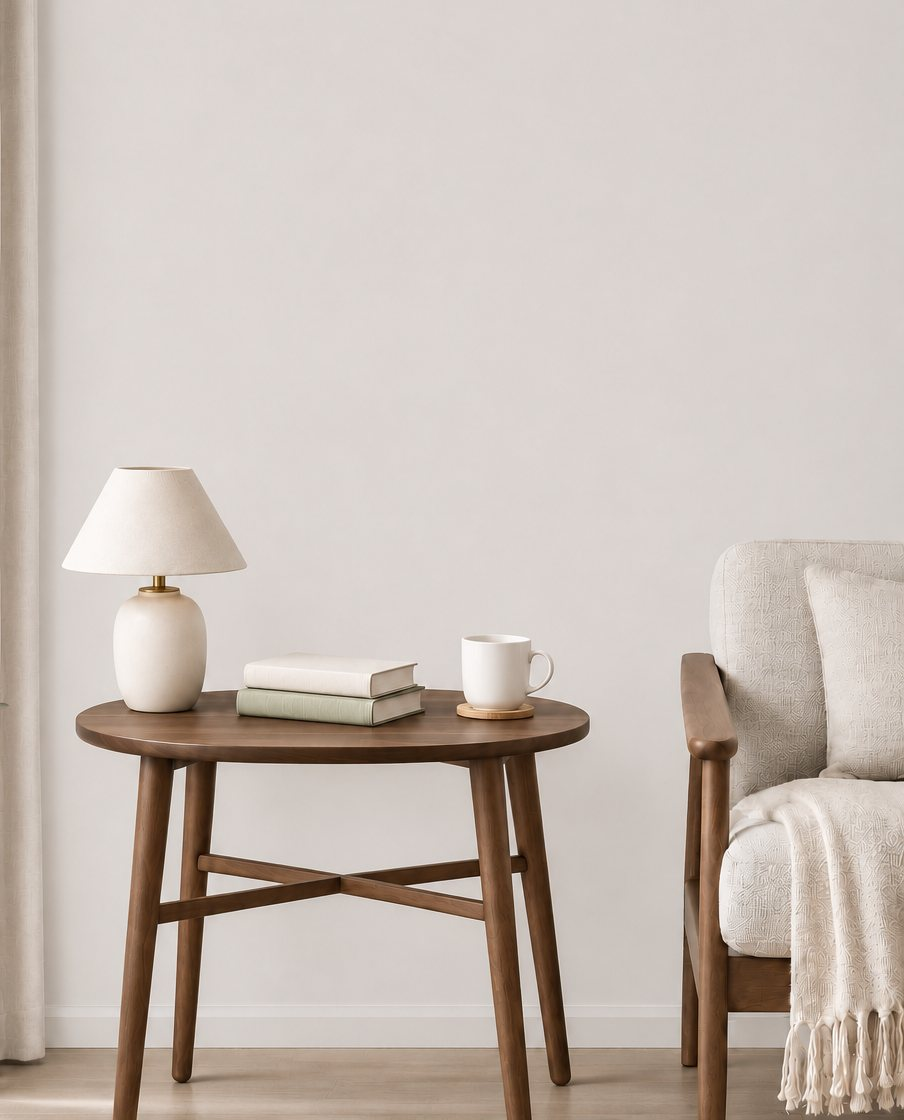
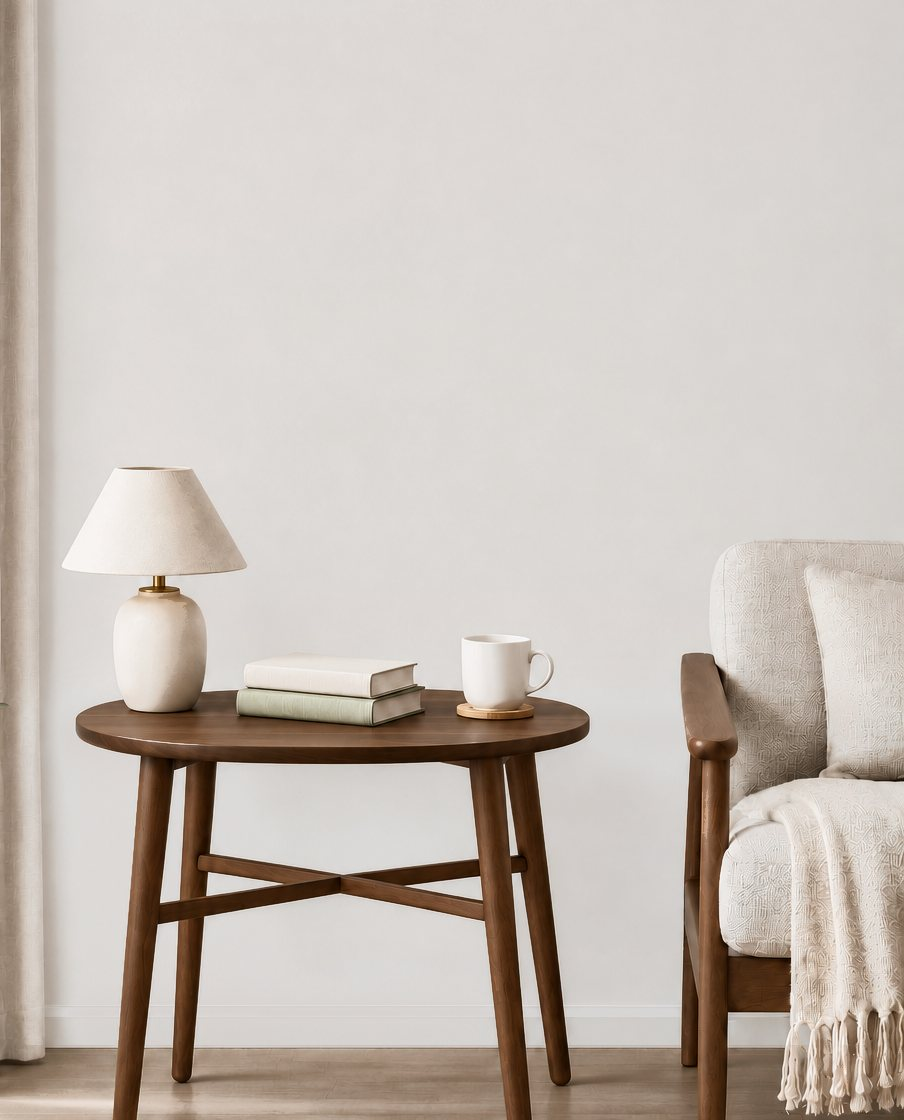
Wall view: desk paintings centred on the wall; table-and-chair room wall matched and wood richer
Claude-Session: https://claude.ai/code/session_01DXftZE4vQKfDt7Q36KHzd9

diff --git a/g-landscapes-trees-and-woodland.html b/g-landscapes-trees-and-woodland.html
@@ -33,7 +33,7 @@
 <img class="room" src="img/room.jpg" alt="" width="1037" height="1517" loading="lazy">
 <div class="hang bare" style="--tw:46;--th:54;--fw:0;--mx:0;--mt:0;--mb:0">
 <img src="img/t/054.jpg" alt="Bluebells in Spring shown at its real size on a wall" loading="lazy"></div>
-</div><p class="pane-note">Shown at its real size, 54 × 46 cm. Above a cabinet about 90 cm wide. The room is an illustration.</p></div><div class="views" role="group" aria-label="Choose a view of Bluebells in Spring"><button type="button" class="view-btn" data-view="painting" aria-pressed="true"><img src="img/t/054.jpg" alt="">The painting</button><button type="button" class="view-btn" data-view="wall" aria-pressed="false"><img src="img/room-thumb.jpg" alt="">On a wall</button></div></div><div class="ex-info"><h2>Bluebells in Spring</h2><dl><dt>Medium</dt><dd>Oil on canvas board</dd><dt>Size</dt><dd>54 × 46 cm</dd><dt>Year</dt><dd>2018</dd><dt>Price</dt><dd>Not for sale</dd><dt>Catalogue no.</dt><dd>54</dd></dl><p>A swathe of blue flowers across the woodland, where two birch trees stand out against the darker wood.</p><p class="ex-links"><button type="button" class="share-btn" data-url="https://joanmullinsart.co.uk/w-054.html" data-title="Bluebells in Spring, by Joan Mullins"><svg aria-hidden="true" viewBox="0 0 24 24" width="16" height="16" fill="none" stroke="currentColor" stroke-width="1.8" stroke-linecap="round" stroke-linejoin="round"><path d="M4 12v7a1 1 0 0 0 1 1h14a1 1 0 0 0 1-1v-7"/><path d="M12 3v12"/><path d="M7 8l5-5 5 5"/></svg><span>Share</span></button></p></div></article><article class="ex" data-status="available" id="w-060"><div class="ex-pic viewer"><div class="pane" data-pane="painting"><a href="img/w/060.jpg" data-zoom title="See it larger"><img src="img/w/060.jpg" alt="Oil painting of bright light shining through dark tree trunks onto snow." loading="lazy" width="1100" height="823"></a></div><div class="pane" data-pane="wall"><div class="wall" style="--rw:1086;--rh:1065;--s:13.0;--cx:542;--by:521">
+</div><p class="pane-note">Shown at its real size, 54 × 46 cm. Above a cabinet about 90 cm wide. The room is an illustration.</p></div><div class="views" role="group" aria-label="Choose a view of Bluebells in Spring"><button type="button" class="view-btn" data-view="painting" aria-pressed="true"><img src="img/t/054.jpg" alt="">The painting</button><button type="button" class="view-btn" data-view="wall" aria-pressed="false"><img src="img/room-thumb.jpg" alt="">On a wall</button></div></div><div class="ex-info"><h2>Bluebells in Spring</h2><dl><dt>Medium</dt><dd>Oil on canvas board</dd><dt>Size</dt><dd>54 × 46 cm</dd><dt>Year</dt><dd>2018</dd><dt>Price</dt><dd>Not for sale</dd><dt>Catalogue no.</dt><dd>54</dd></dl><p>A swathe of blue flowers across the woodland, where two birch trees stand out against the darker wood.</p><p class="ex-links"><button type="button" class="share-btn" data-url="https://joanmullinsart.co.uk/w-054.html" data-title="Bluebells in Spring, by Joan Mullins"><svg aria-hidden="true" viewBox="0 0 24 24" width="16" height="16" fill="none" stroke="currentColor" stroke-width="1.8" stroke-linecap="round" stroke-linejoin="round"><path d="M4 12v7a1 1 0 0 0 1 1h14a1 1 0 0 0 1-1v-7"/><path d="M12 3v12"/><path d="M7 8l5-5 5 5"/></svg><span>Share</span></button></p></div></article><article class="ex" data-status="available" id="w-060"><div class="ex-pic viewer"><div class="pane" data-pane="painting"><a href="img/w/060.jpg" data-zoom title="See it larger"><img src="img/w/060.jpg" alt="Oil painting of bright light shining through dark tree trunks onto snow." loading="lazy" width="1100" height="823"></a></div><div class="pane" data-pane="wall"><div class="wall" style="--rw:1086;--rh:1065;--s:13.0;--cx:616;--by:521">
 <img class="room" src="img/room-desk.jpg" alt="" width="1086" height="1065" loading="lazy">
 <div class="hang bare" style="--tw:20;--th:15;--fw:0;--mx:0;--mt:0;--mb:0">
 <img src="img/t/060.jpg" alt="Light in the Snow shown at its real size on a wall" loading="lazy"></div>
@@ -45,7 +45,7 @@
 <img class="room" src="img/room.jpg" alt="" width="1037" height="1517" loading="lazy">
 <div class="hang bare" style="--tw:35;--th:48;--fw:0;--mx:0;--mt:0;--mb:0">
 <img src="img/t/090.jpg" alt="The Yellow Bush shown at its real size on a wall" loading="lazy"></div>
-</div><p class="pane-note">Shown at its real size, 48 × 35 cm. Above a cabinet about 90 cm wide. The room is an illustration.</p></div><div class="views" role="group" aria-label="Choose a view of The Yellow Bush"><button type="button" class="view-btn" data-view="painting" aria-pressed="true"><img src="img/t/090.jpg" alt="">The painting</button><button type="button" class="view-btn" data-view="wall" aria-pressed="false"><img src="img/room-thumb.jpg" alt="">On a wall</button></div></div><div class="ex-info"><h2>The Yellow Bush</h2><dl><dt>Medium</dt><dd>Oil on canvas board</dd><dt>Size</dt><dd>48 × 35 cm</dd><dt>Year</dt><dd>2024</dd><dt>Inspired by</dt><dd>A wood in Cheshire</dd><dt>Price</dt><dd>Not for sale</dd><dt>Catalogue no.</dt><dd>90</dd></dl><p>This painting is based on trees seen on a walk in the woods in Cheshire, where one bush in particular stood out.</p><p class="ex-links"><button type="button" class="share-btn" data-url="https://joanmullinsart.co.uk/w-090.html" data-title="The Yellow Bush, by Joan Mullins"><svg aria-hidden="true" viewBox="0 0 24 24" width="16" height="16" fill="none" stroke="currentColor" stroke-width="1.8" stroke-linecap="round" stroke-linejoin="round"><path d="M4 12v7a1 1 0 0 0 1 1h14a1 1 0 0 0 1-1v-7"/><path d="M12 3v12"/><path d="M7 8l5-5 5 5"/></svg><span>Share</span></button></p></div></article><article class="ex" data-status="available" id="w-105"><div class="ex-pic viewer"><div class="pane" data-pane="painting"><a href="img/w/105.jpg" data-zoom title="See it larger"><img src="img/w/105.jpg" alt="Oil painting of a sunlit path between overgrown green banks and trees near West Kirby, on the Wirral." loading="lazy" width="726" height="1100"></a></div><div class="pane" data-pane="wall"><div class="wall" style="--rw:1086;--rh:1065;--s:13.0;--cx:542;--by:521">
+</div><p class="pane-note">Shown at its real size, 48 × 35 cm. Above a cabinet about 90 cm wide. The room is an illustration.</p></div><div class="views" role="group" aria-label="Choose a view of The Yellow Bush"><button type="button" class="view-btn" data-view="painting" aria-pressed="true"><img src="img/t/090.jpg" alt="">The painting</button><button type="button" class="view-btn" data-view="wall" aria-pressed="false"><img src="img/room-thumb.jpg" alt="">On a wall</button></div></div><div class="ex-info"><h2>The Yellow Bush</h2><dl><dt>Medium</dt><dd>Oil on canvas board</dd><dt>Size</dt><dd>48 × 35 cm</dd><dt>Year</dt><dd>2024</dd><dt>Inspired by</dt><dd>A wood in Cheshire</dd><dt>Price</dt><dd>Not for sale</dd><dt>Catalogue no.</dt><dd>90</dd></dl><p>This painting is based on trees seen on a walk in the woods in Cheshire, where one bush in particular stood out.</p><p class="ex-links"><button type="button" class="share-btn" data-url="https://joanmullinsart.co.uk/w-090.html" data-title="The Yellow Bush, by Joan Mullins"><svg aria-hidden="true" viewBox="0 0 24 24" width="16" height="16" fill="none" stroke="currentColor" stroke-width="1.8" stroke-linecap="round" stroke-linejoin="round"><path d="M4 12v7a1 1 0 0 0 1 1h14a1 1 0 0 0 1-1v-7"/><path d="M12 3v12"/><path d="M7 8l5-5 5 5"/></svg><span>Share</span></button></p></div></article><article class="ex" data-status="available" id="w-105"><div class="ex-pic viewer"><div class="pane" data-pane="painting"><a href="img/w/105.jpg" data-zoom title="See it larger"><img src="img/w/105.jpg" alt="Oil painting of a sunlit path between overgrown green banks and trees near West Kirby, on the Wirral." loading="lazy" width="726" height="1100"></a></div><div class="pane" data-pane="wall"><div class="wall" style="--rw:1086;--rh:1065;--s:13.0;--cx:616;--by:521">
 <img class="room" src="img/room-desk.jpg" alt="" width="1086" height="1065" loading="lazy">
 <div class="hang bare" style="--tw:20;--th:29;--fw:0;--mx:0;--mt:0;--mb:0">
 <img src="img/t/105.jpg" alt="A Path in the Wirral shown at its real size on a wall" loading="lazy"></div>
@@ -69,7 +69,7 @@
 <img class="room" src="img/room-small.jpg" alt="" width="904" height="1120" loading="lazy">
 <div class="hang bare" style="--tw:45;--th:33;--fw:0;--mx:0;--mt:0;--mb:0">
 <img src="img/t/142.jpg" alt="Landscape with Red Roofs shown at its real size on a wall" loading="lazy"></div>
-</div><p class="pane-note">Shown at its real size, 33 × 45 cm. Above a side table about 65 cm across. The room is an illustration.</p></div><div class="views" role="group" aria-label="Choose a view of Landscape with Red Roofs"><button type="button" class="view-btn" data-view="painting" aria-pressed="true"><img src="img/t/142.jpg" alt="">The painting</button><button type="button" class="view-btn" data-view="wall" aria-pressed="false"><img src="img/room-small-thumb.jpg" alt="">On a wall</button></div></div><div class="ex-info"><h2>Landscape with Red Roofs</h2><dl><dt>Medium</dt><dd>Oil on canvas board</dd><dt>Size</dt><dd>33 × 45 cm</dd><dt>Year</dt><dd>2026</dd><dt>Price</dt><dd>£300</dd><dt>Catalogue no.</dt><dd>142</dd></dl><p>A summer landscape, with a path passing between trees inviting the viewer to look out towards the houses in the distance.</p><p class="ex-links"><a href="enquire.html#w-142">Ask about this painting</a> · <button type="button" class="share-btn" data-url="https://joanmullinsart.co.uk/w-142.html" data-title="Landscape with Red Roofs, by Joan Mullins"><svg aria-hidden="true" viewBox="0 0 24 24" width="16" height="16" fill="none" stroke="currentColor" stroke-width="1.8" stroke-linecap="round" stroke-linejoin="round"><path d="M4 12v7a1 1 0 0 0 1 1h14a1 1 0 0 0 1-1v-7"/><path d="M12 3v12"/><path d="M7 8l5-5 5 5"/></svg><span>Share</span></button></p></div></article><article class="ex" data-status="available" id="w-148"><div class="ex-pic viewer"><div class="pane" data-pane="painting"><a href="img/w/148.jpg" data-zoom title="See it larger"><img src="img/w/148.jpg" alt="Oil painting of autumn woodland with tall trees in orange, yellow and green on a calm day." loading="lazy" width="1099" height="777"></a></div><div class="pane" data-pane="wall"><div class="wall" style="--rw:1086;--rh:1065;--s:13.0;--cx:542;--by:521">
+</div><p class="pane-note">Shown at its real size, 33 × 45 cm. Above a side table about 65 cm across. The room is an illustration.</p></div><div class="views" role="group" aria-label="Choose a view of Landscape with Red Roofs"><button type="button" class="view-btn" data-view="painting" aria-pressed="true"><img src="img/t/142.jpg" alt="">The painting</button><button type="button" class="view-btn" data-view="wall" aria-pressed="false"><img src="img/room-small-thumb.jpg" alt="">On a wall</button></div></div><div class="ex-info"><h2>Landscape with Red Roofs</h2><dl><dt>Medium</dt><dd>Oil on canvas board</dd><dt>Size</dt><dd>33 × 45 cm</dd><dt>Year</dt><dd>2026</dd><dt>Price</dt><dd>£300</dd><dt>Catalogue no.</dt><dd>142</dd></dl><p>A summer landscape, with a path passing between trees inviting the viewer to look out towards the houses in the distance.</p><p class="ex-links"><a href="enquire.html#w-142">Ask about this painting</a> · <button type="button" class="share-btn" data-url="https://joanmullinsart.co.uk/w-142.html" data-title="Landscape with Red Roofs, by Joan Mullins"><svg aria-hidden="true" viewBox="0 0 24 24" width="16" height="16" fill="none" stroke="currentColor" stroke-width="1.8" stroke-linecap="round" stroke-linejoin="round"><path d="M4 12v7a1 1 0 0 0 1 1h14a1 1 0 0 0 1-1v-7"/><path d="M12 3v12"/><path d="M7 8l5-5 5 5"/></svg><span>Share</span></button></p></div></article><article class="ex" data-status="available" id="w-148"><div class="ex-pic viewer"><div class="pane" data-pane="painting"><a href="img/w/148.jpg" data-zoom title="See it larger"><img src="img/w/148.jpg" alt="Oil painting of autumn woodland with tall trees in orange, yellow and green on a calm day." loading="lazy" width="1099" height="777"></a></div><div class="pane" data-pane="wall"><div class="wall" style="--rw:1086;--rh:1065;--s:13.0;--cx:616;--by:521">
 <img class="room" src="img/room-desk.jpg" alt="" width="1086" height="1065" loading="lazy">
 <div class="hang bare" style="--tw:34;--th:25;--fw:0;--mx:0;--mt:0;--mb:0">
 <img src="img/t/148.jpg" alt="Autumn Woods shown at its real size on a wall" loading="lazy"></div>

diff --git a/sold.html b/sold.html
@@ -49,7 +49,7 @@
 <img class="room" src="img/room-small.jpg" alt="" width="904" height="1120" loading="lazy">
 <div class="hang bare" style="--tw:35;--th:45;--fw:0;--mx:0;--mt:0;--mb:0">
 <img src="img/t/114.jpg" alt="Landscape with Birch Trees shown at its real size on a wall" loading="lazy"></div>
-</div><p class="pane-note">Shown at its real size, 45 × 35 cm. Above a side table about 65 cm across. The room is an illustration.</p></div><div class="views" role="group" aria-label="Choose a view of Landscape with Birch Trees"><button type="button" class="view-btn" data-view="painting" aria-pressed="true"><img src="img/t/114.jpg" alt="">The painting</button><button type="button" class="view-btn" data-view="wall" aria-pressed="false"><img src="img/room-small-thumb.jpg" alt="">On a wall</button></div></div><div class="ex-info"><h2>Landscape with Birch Trees</h2><dl><dt>Medium</dt><dd>Oil on canvas board</dd><dt>Size</dt><dd>45 × 35 cm</dd><dt>Year</dt><dd>2008</dd><dt>Inspired by</dt><dd>Hampshire</dd><dt>Price</dt><dd>Sold</dd><dt>Catalogue no.</dt><dd>114</dd></dl><p>Landscape with birch trees in Hampshire, England. Again, the interest here is the white of the tree bark against the green background of trees and fields.</p><p class="ex-links"><button type="button" class="share-btn" data-url="https://joanmullinsart.co.uk/w-114.html" data-title="Landscape with Birch Trees, by Joan Mullins"><svg aria-hidden="true" viewBox="0 0 24 24" width="16" height="16" fill="none" stroke="currentColor" stroke-width="1.8" stroke-linecap="round" stroke-linejoin="round"><path d="M4 12v7a1 1 0 0 0 1 1h14a1 1 0 0 0 1-1v-7"/><path d="M12 3v12"/><path d="M7 8l5-5 5 5"/></svg><span>Share</span></button></p></div></article><article class="ex" data-status="sold" id="w-124"><div class="ex-pic viewer"><div class="pane" data-pane="painting"><a href="img/w/124.jpg" data-zoom title="See it larger"><img src="img/w/124.jpg" alt="Two Dogs in the Pea Fields" loading="lazy" width="970" height="1100"></a></div></div><div class="ex-info"><h2>Two Dogs in the Pea Fields</h2><dl><dt>Medium</dt><dd>Oil on canvas board</dd><dt>Price</dt><dd>Sold</dd><dt>Catalogue no.</dt><dd>124</dd></dl><p class="ex-links"><button type="button" class="share-btn" data-url="https://joanmullinsart.co.uk/w-124.html" data-title="Two Dogs in the Pea Fields, by Joan Mullins"><svg aria-hidden="true" viewBox="0 0 24 24" width="16" height="16" fill="none" stroke="currentColor" stroke-width="1.8" stroke-linecap="round" stroke-linejoin="round"><path d="M4 12v7a1 1 0 0 0 1 1h14a1 1 0 0 0 1-1v-7"/><path d="M12 3v12"/><path d="M7 8l5-5 5 5"/></svg><span>Share</span></button></p></div></article><article class="ex" data-status="sold" id="w-139"><div class="ex-pic viewer"><div class="pane" data-pane="painting"><a href="img/w/139.jpg" data-zoom title="See it larger"><img src="img/w/139.jpg" alt="Birch Trees in Spring with Dandelions" loading="lazy" width="844" height="591"></a></div><div class="pane" data-pane="wall"><div class="wall" style="--rw:1086;--rh:1065;--s:13.0;--cx:542;--by:521">
+</div><p class="pane-note">Shown at its real size, 45 × 35 cm. Above a side table about 65 cm across. The room is an illustration.</p></div><div class="views" role="group" aria-label="Choose a view of Landscape with Birch Trees"><button type="button" class="view-btn" data-view="painting" aria-pressed="true"><img src="img/t/114.jpg" alt="">The painting</button><button type="button" class="view-btn" data-view="wall" aria-pressed="false"><img src="img/room-small-thumb.jpg" alt="">On a wall</button></div></div><div class="ex-info"><h2>Landscape with Birch Trees</h2><dl><dt>Medium</dt><dd>Oil on canvas board</dd><dt>Size</dt><dd>45 × 35 cm</dd><dt>Year</dt><dd>2008</dd><dt>Inspired by</dt><dd>Hampshire</dd><dt>Price</dt><dd>Sold</dd><dt>Catalogue no.</dt><dd>114</dd></dl><p>Landscape with birch trees in Hampshire, England. Again, the interest here is the white of the tree bark against the green background of trees and fields.</p><p class="ex-links"><button type="button" class="share-btn" data-url="https://joanmullinsart.co.uk/w-114.html" data-title="Landscape with Birch Trees, by Joan Mullins"><svg aria-hidden="true" viewBox="0 0 24 24" width="16" height="16" fill="none" stroke="currentColor" stroke-width="1.8" stroke-linecap="round" stroke-linejoin="round"><path d="M4 12v7a1 1 0 0 0 1 1h14a1 1 0 0 0 1-1v-7"/><path d="M12 3v12"/><path d="M7 8l5-5 5 5"/></svg><span>Share</span></button></p></div></article><article class="ex" data-status="sold" id="w-124"><div class="ex-pic viewer"><div class="pane" data-pane="painting"><a href="img/w/124.jpg" data-zoom title="See it larger"><img src="img/w/124.jpg" alt="Two Dogs in the Pea Fields" loading="lazy" width="970" height="1100"></a></div></div><div class="ex-info"><h2>Two Dogs in the Pea Fields</h2><dl><dt>Medium</dt><dd>Oil on canvas board</dd><dt>Price</dt><dd>Sold</dd><dt>Catalogue no.</dt><dd>124</dd></dl><p class="ex-links"><button type="button" class="share-btn" data-url="https://joanmullinsart.co.uk/w-124.html" data-title="Two Dogs in the Pea Fields, by Joan Mullins"><svg aria-hidden="true" viewBox="0 0 24 24" width="16" height="16" fill="none" stroke="currentColor" stroke-width="1.8" stroke-linecap="round" stroke-linejoin="round"><path d="M4 12v7a1 1 0 0 0 1 1h14a1 1 0 0 0 1-1v-7"/><path d="M12 3v12"/><path d="M7 8l5-5 5 5"/></svg><span>Share</span></button></p></div></article><article class="ex" data-status="sold" id="w-139"><div class="ex-pic viewer"><div class="pane" data-pane="painting"><a href="img/w/139.jpg" data-zoom title="See it larger"><img src="img/w/139.jpg" alt="Birch Trees in Spring with Dandelions" loading="lazy" width="844" height="591"></a></div><div class="pane" data-pane="wall"><div class="wall" style="--rw:1086;--rh:1065;--s:13.0;--cx:616;--by:521">
 <img class="room" src="img/room-desk.jpg" alt="" width="1086" height="1065" loading="lazy">
 <div class="hang bare" style="--tw:30;--th:20;--fw:0;--mx:0;--mt:0;--mb:0">
 <img src="img/t/139.jpg" alt="Birch Trees in Spring with Dandelions shown at its real size on a wall" loading="lazy"></div>

diff --git a/g-landscapes-countryside.html b/g-landscapes-countryside.html
@@ -33,7 +33,7 @@
 <img class="room" src="img/room.jpg" alt="" width="1037" height="1517" loading="lazy">
 <div class="hang mounted" style="--tw:50.4;--th:42.4;--fw:2.2;--mx:7;--mt:7;--mb:8">
 <img src="img/t/008.jpg" alt="Balancing Rocks Zimbabwe shown at its real size on a wall" loading="lazy"></div>
-</div><p class="pane-note">Shown in a typical mount and frame, which are not included. The painting itself is 23 × 32 cm. Above a cabinet about 90 cm wide. The room is an illustration.</p></div><div class="views" role="group" aria-label="Choose a view of Balancing Rocks Zimbabwe"><button type="button" class="view-btn" data-view="painting" aria-pressed="true"><img src="img/t/008.jpg" alt="">The painting</button><button type="button" class="view-btn" data-view="wall" aria-pressed="false"><img src="img/room-thumb.jpg" alt="">On a wall</button></div></div><div class="ex-info"><h2>Balancing Rocks Zimbabwe</h2><dl><dt>Medium</dt><dd>Ink and watercolour on paper</dd><dt>Size</dt><dd>23 × 32 cm</dd><dt>Year</dt><dd>1985</dd><dt>Inspired by</dt><dd>The south of Zimbabwe</dd><dt>Price</dt><dd>£175</dd><dt>Catalogue no.</dt><dd>8</dd></dl><p>These very famous balancing rocks in the south of Zimbabwe are typical of the granite rock formations in the south of the country, where I grew up. It was done in a nostalgic mood many years after leaving the country.</p><p class="ex-links"><a href="enquire.html#w-008">Ask about this painting</a> · <button type="button" class="share-btn" data-url="https://joanmullinsart.co.uk/w-008.html" data-title="Balancing Rocks Zimbabwe, by Joan Mullins"><svg aria-hidden="true" viewBox="0 0 24 24" width="16" height="16" fill="none" stroke="currentColor" stroke-width="1.8" stroke-linecap="round" stroke-linejoin="round"><path d="M4 12v7a1 1 0 0 0 1 1h14a1 1 0 0 0 1-1v-7"/><path d="M12 3v12"/><path d="M7 8l5-5 5 5"/></svg><span>Share</span></button></p></div></article><article class="ex" data-status="available" id="w-031"><div class="ex-pic viewer"><div class="pane" data-pane="painting"><a href="img/w/031.jpg" data-zoom title="See it larger"><img src="img/w/031.jpg" alt="Oil painting of a small stone shed beside a snow-covered track in Co Mayo, Ireland, with fir trees behind." loading="lazy" width="1100" height="886"></a></div><div class="pane" data-pane="wall"><div class="wall" style="--rw:1086;--rh:1065;--s:13.0;--cx:542;--by:521">
+</div><p class="pane-note">Shown in a typical mount and frame, which are not included. The painting itself is 23 × 32 cm. Above a cabinet about 90 cm wide. The room is an illustration.</p></div><div class="views" role="group" aria-label="Choose a view of Balancing Rocks Zimbabwe"><button type="button" class="view-btn" data-view="painting" aria-pressed="true"><img src="img/t/008.jpg" alt="">The painting</button><button type="button" class="view-btn" data-view="wall" aria-pressed="false"><img src="img/room-thumb.jpg" alt="">On a wall</button></div></div><div class="ex-info"><h2>Balancing Rocks Zimbabwe</h2><dl><dt>Medium</dt><dd>Ink and watercolour on paper</dd><dt>Size</dt><dd>23 × 32 cm</dd><dt>Year</dt><dd>1985</dd><dt>Inspired by</dt><dd>The south of Zimbabwe</dd><dt>Price</dt><dd>£175</dd><dt>Catalogue no.</dt><dd>8</dd></dl><p>These very famous balancing rocks in the south of Zimbabwe are typical of the granite rock formations in the south of the country, where I grew up. It was done in a nostalgic mood many years after leaving the country.</p><p class="ex-links"><a href="enquire.html#w-008">Ask about this painting</a> · <button type="button" class="share-btn" data-url="https://joanmullinsart.co.uk/w-008.html" data-title="Balancing Rocks Zimbabwe, by Joan Mullins"><svg aria-hidden="true" viewBox="0 0 24 24" width="16" height="16" fill="none" stroke="currentColor" stroke-width="1.8" stroke-linecap="round" stroke-linejoin="round"><path d="M4 12v7a1 1 0 0 0 1 1h14a1 1 0 0 0 1-1v-7"/><path d="M12 3v12"/><path d="M7 8l5-5 5 5"/></svg><span>Share</span></button></p></div></article><article class="ex" data-status="available" id="w-031"><div class="ex-pic viewer"><div class="pane" data-pane="painting"><a href="img/w/031.jpg" data-zoom title="See it larger"><img src="img/w/031.jpg" alt="Oil painting of a small stone shed beside a snow-covered track in Co Mayo, Ireland, with fir trees behind." loading="lazy" width="1100" height="886"></a></div><div class="pane" data-pane="wall"><div class="wall" style="--rw:1086;--rh:1065;--s:13.0;--cx:616;--by:521">
 <img class="room" src="img/room-desk.jpg" alt="" width="1086" height="1065" loading="lazy">
 <div class="hang bare" style="--tw:35;--th:32;--fw:0;--mx:0;--mt:0;--mb:0">
 <img src="img/t/031.jpg" alt="Abandoned Shed shown at its real size on a wall" loading="lazy"></div>

diff --git a/new.html b/new.html
@@ -41,7 +41,7 @@
 <img class="room" src="img/room-small.jpg" alt="" width="904" height="1120" loading="lazy">
 <div class="hang bare" style="--tw:45;--th:28;--fw:0;--mx:0;--mt:0;--mb:0">
 <img src="img/t/143.jpg" alt="Thurstaston Beach at Sunset shown at its real size on a wall" loading="lazy"></div>
-</div><p class="pane-note">Shown at its real size, 28 × 45 cm. Above a side table about 65 cm across. The room is an illustration.</p></div><div class="views" role="group" aria-label="Choose a view of Thurstaston Beach at Sunset"><button type="button" class="view-btn" data-view="painting" aria-pressed="true"><img src="img/t/143.jpg" alt="">The painting</button><button type="button" class="view-btn" data-view="wall" aria-pressed="false"><img src="img/room-small-thumb.jpg" alt="">On a wall</button></div></div><div class="ex-info"><h2>Thurstaston Beach at Sunset</h2><dl><dt>Medium</dt><dd>Oil on canvas board</dd><dt>Size</dt><dd>28 × 45 cm</dd><dt>Year</dt><dd>2026</dd><dt>Inspired by</dt><dd>Thurstaston beach, Wirral</dd><dt>Price</dt><dd>£200</dd><dt>Catalogue no.</dt><dd>143</dd></dl><p>Thurstaston beach at sunset, with a small stream meandering across the pebbles and sand towards the sea.</p><p class="ex-links"><a href="enquire.html#w-143">Ask about this painting</a> · <button type="button" class="share-btn" data-url="https://joanmullinsart.co.uk/w-143.html" data-title="Thurstaston Beach at Sunset, by Joan Mullins"><svg aria-hidden="true" viewBox="0 0 24 24" width="16" height="16" fill="none" stroke="currentColor" stroke-width="1.8" stroke-linecap="round" stroke-linejoin="round"><path d="M4 12v7a1 1 0 0 0 1 1h14a1 1 0 0 0 1-1v-7"/><path d="M12 3v12"/><path d="M7 8l5-5 5 5"/></svg><span>Share</span></button></p></div></article><article class="ex" data-status="available" id="w-148"><div class="ex-pic viewer"><div class="pane" data-pane="painting"><a href="img/w/148.jpg" data-zoom title="See it larger"><img src="img/w/148.jpg" alt="Oil painting of autumn woodland with tall trees in orange, yellow and green on a calm day." loading="lazy" width="1099" height="777"></a></div><div class="pane" data-pane="wall"><div class="wall" style="--rw:1086;--rh:1065;--s:13.0;--cx:542;--by:521">
+</div><p class="pane-note">Shown at its real size, 28 × 45 cm. Above a side table about 65 cm across. The room is an illustration.</p></div><div class="views" role="group" aria-label="Choose a view of Thurstaston Beach at Sunset"><button type="button" class="view-btn" data-view="painting" aria-pressed="true"><img src="img/t/143.jpg" alt="">The painting</button><button type="button" class="view-btn" data-view="wall" aria-pressed="false"><img src="img/room-small-thumb.jpg" alt="">On a wall</button></div></div><div class="ex-info"><h2>Thurstaston Beach at Sunset</h2><dl><dt>Medium</dt><dd>Oil on canvas board</dd><dt>Size</dt><dd>28 × 45 cm</dd><dt>Year</dt><dd>2026</dd><dt>Inspired by</dt><dd>Thurstaston beach, Wirral</dd><dt>Price</dt><dd>£200</dd><dt>Catalogue no.</dt><dd>143</dd></dl><p>Thurstaston beach at sunset, with a small stream meandering across the pebbles and sand towards the sea.</p><p class="ex-links"><a href="enquire.html#w-143">Ask about this painting</a> · <button type="button" class="share-btn" data-url="https://joanmullinsart.co.uk/w-143.html" data-title="Thurstaston Beach at Sunset, by Joan Mullins"><svg aria-hidden="true" viewBox="0 0 24 24" width="16" height="16" fill="none" stroke="currentColor" stroke-width="1.8" stroke-linecap="round" stroke-linejoin="round"><path d="M4 12v7a1 1 0 0 0 1 1h14a1 1 0 0 0 1-1v-7"/><path d="M12 3v12"/><path d="M7 8l5-5 5 5"/></svg><span>Share</span></button></p></div></article><article class="ex" data-status="available" id="w-148"><div class="ex-pic viewer"><div class="pane" data-pane="painting"><a href="img/w/148.jpg" data-zoom title="See it larger"><img src="img/w/148.jpg" alt="Oil painting of autumn woodland with tall trees in orange, yellow and green on a calm day." loading="lazy" width="1099" height="777"></a></div><div class="pane" data-pane="wall"><div class="wall" style="--rw:1086;--rh:1065;--s:13.0;--cx:616;--by:521">
 <img class="room" src="img/room-desk.jpg" alt="" width="1086" height="1065" loading="lazy">
 <div class="hang bare" style="--tw:34;--th:25;--fw:0;--mx:0;--mt:0;--mb:0">
 <img src="img/t/148.jpg" alt="Autumn Woods shown at its real size on a wall" loading="lazy"></div>

diff --git a/g-sea-imaginings.html b/g-sea-imaginings.html
@@ -30,7 +30,7 @@
 <img class="room" src="img/room.jpg" alt="" width="1037" height="1517" loading="lazy">
 <div class="hang bare" style="--tw:50;--th:40;--fw:0;--mx:0;--mt:0;--mb:0">
 <img src="img/t/002.jpg" alt="Shell Fantasy No.2 shown at its real size on a wall" loading="lazy"></div>
-</div><p class="pane-note">Shown at its real size, 40 × 50 cm. Above a cabinet about 90 cm wide. The room is an illustration.</p></div><div class="views" role="group" aria-label="Choose a view of Shell Fantasy No.2"><button type="button" class="view-btn" data-view="painting" aria-pressed="true"><img src="img/t/002.jpg" alt="">The painting</button><button type="button" class="view-btn" data-view="wall" aria-pressed="false"><img src="img/room-thumb.jpg" alt="">On a wall</button></div></div><div class="ex-info"><h2>Shell Fantasy No.2</h2><dl><dt>Medium</dt><dd>Oil on canvas board</dd><dt>Size</dt><dd>40 × 50 cm</dd><dt>Year</dt><dd>2016</dd><dt>Price</dt><dd>£450</dd><dt>Catalogue no.</dt><dd>2</dd></dl><p>This is one of my earlier oil paintings, following a more creative approach while still using the sea and its creatures for inspiration.</p><p class="ex-links"><a href="enquire.html#w-002">Ask about this painting</a> · <button type="button" class="share-btn" data-url="https://joanmullinsart.co.uk/w-002.html" data-title="Shell Fantasy No.2, by Joan Mullins"><svg aria-hidden="true" viewBox="0 0 24 24" width="16" height="16" fill="none" stroke="currentColor" stroke-width="1.8" stroke-linecap="round" stroke-linejoin="round"><path d="M4 12v7a1 1 0 0 0 1 1h14a1 1 0 0 0 1-1v-7"/><path d="M12 3v12"/><path d="M7 8l5-5 5 5"/></svg><span>Share</span></button></p></div></article><article class="ex" data-status="available" id="w-033"><div class="ex-pic viewer"><div class="pane" data-pane="painting"><a href="img/w/033.jpg" data-zoom title="See it larger"><img src="img/w/033.jpg" alt="Oil painting of shells in pinks, creams and browns, arranged as a design of fanned and spiralling shapes." loading="lazy" width="918" height="1100"></a></div><div class="pane" data-pane="wall"><div class="wall" style="--rw:1086;--rh:1065;--s:13.0;--cx:542;--by:521">
+</div><p class="pane-note">Shown at its real size, 40 × 50 cm. Above a cabinet about 90 cm wide. The room is an illustration.</p></div><div class="views" role="group" aria-label="Choose a view of Shell Fantasy No.2"><button type="button" class="view-btn" data-view="painting" aria-pressed="true"><img src="img/t/002.jpg" alt="">The painting</button><button type="button" class="view-btn" data-view="wall" aria-pressed="false"><img src="img/room-thumb.jpg" alt="">On a wall</button></div></div><div class="ex-info"><h2>Shell Fantasy No.2</h2><dl><dt>Medium</dt><dd>Oil on canvas board</dd><dt>Size</dt><dd>40 × 50 cm</dd><dt>Year</dt><dd>2016</dd><dt>Price</dt><dd>£450</dd><dt>Catalogue no.</dt><dd>2</dd></dl><p>This is one of my earlier oil paintings, following a more creative approach while still using the sea and its creatures for inspiration.</p><p class="ex-links"><a href="enquire.html#w-002">Ask about this painting</a> · <button type="button" class="share-btn" data-url="https://joanmullinsart.co.uk/w-002.html" data-title="Shell Fantasy No.2, by Joan Mullins"><svg aria-hidden="true" viewBox="0 0 24 24" width="16" height="16" fill="none" stroke="currentColor" stroke-width="1.8" stroke-linecap="round" stroke-linejoin="round"><path d="M4 12v7a1 1 0 0 0 1 1h14a1 1 0 0 0 1-1v-7"/><path d="M12 3v12"/><path d="M7 8l5-5 5 5"/></svg><span>Share</span></button></p></div></article><article class="ex" data-status="available" id="w-033"><div class="ex-pic viewer"><div class="pane" data-pane="painting"><a href="img/w/033.jpg" data-zoom title="See it larger"><img src="img/w/033.jpg" alt="Oil painting of shells in pinks, creams and browns, arranged as a design of fanned and spiralling shapes." loading="lazy" width="918" height="1100"></a></div><div class="pane" data-pane="wall"><div class="wall" style="--rw:1086;--rh:1065;--s:13.0;--cx:616;--by:521">
 <img class="room" src="img/room-desk.jpg" alt="" width="1086" height="1065" loading="lazy">
 <div class="hang bare" style="--tw:25;--th:30;--fw:0;--mx:0;--mt:0;--mb:0">
 <img src="img/t/033.jpg" alt="Shell Design in Brown and Pink shown at its real size on a wall" loading="lazy"></div>

diff --git a/g-figurative-work.html b/g-figurative-work.html
@@ -50,7 +50,7 @@
 <img class="room" src="img/room.jpg" alt="" width="1037" height="1517" loading="lazy">
 <div class="hang mounted" style="--tw:44.4;--th:53.4;--fw:2.2;--mx:7;--mt:7;--mb:8">
 <img src="img/t/128.jpg" alt="1-5 Series of Ink and brush Heads shown at its real size on a wall" loading="lazy"></div>
-</div><p class="pane-note">Shown in a typical mount and frame, which are not included. The painting itself is 34 × 26 cm. Above a cabinet about 90 cm wide. The room is an illustration.</p></div><div class="views" role="group" aria-label="Choose a view of 1-5 Series of Ink and brush Heads"><button type="button" class="view-btn" data-view="painting" aria-pressed="true"><img src="img/t/128.jpg" alt="">The painting</button><button type="button" class="view-btn" data-view="wall" aria-pressed="false"><img src="img/room-thumb.jpg" alt="">On a wall</button></div></div><div class="ex-info"><h2>1-5 Series of Ink and brush Heads</h2><dl><dt>Medium</dt><dd>Ink and wash on paper</dd><dt>Size</dt><dd>34 × 26 cm</dd><dt>Year</dt><dd>2025</dd><dt>Price</dt><dd>£50</dd><dt>Catalogue no.</dt><dd>128</dd></dl><p class="ex-links"><a href="enquire.html#w-128">Ask about this painting</a> · <button type="button" class="share-btn" data-url="https://joanmullinsart.co.uk/w-128.html" data-title="1-5 Series of Ink and brush Heads, by Joan Mullins"><svg aria-hidden="true" viewBox="0 0 24 24" width="16" height="16" fill="none" stroke="currentColor" stroke-width="1.8" stroke-linecap="round" stroke-linejoin="round"><path d="M4 12v7a1 1 0 0 0 1 1h14a1 1 0 0 0 1-1v-7"/><path d="M12 3v12"/><path d="M7 8l5-5 5 5"/></svg><span>Share</span></button></p></div></article><article class="ex" data-status="nfs" id="w-144"><div class="ex-pic viewer"><div class="pane" data-pane="painting"><a href="img/w/144.jpg" data-zoom title="See it larger"><img src="img/w/144.jpg" alt="Oil portrait of an older person with silver hair, in a blue jumper and white collar, looking down." loading="lazy" width="1400" height="1446"></a></div><div class="pane" data-pane="wall"><div class="wall" style="--rw:1086;--rh:1065;--s:13.0;--cx:542;--by:521">
+</div><p class="pane-note">Shown in a typical mount and frame, which are not included. The painting itself is 34 × 26 cm. Above a cabinet about 90 cm wide. The room is an illustration.</p></div><div class="views" role="group" aria-label="Choose a view of 1-5 Series of Ink and brush Heads"><button type="button" class="view-btn" data-view="painting" aria-pressed="true"><img src="img/t/128.jpg" alt="">The painting</button><button type="button" class="view-btn" data-view="wall" aria-pressed="false"><img src="img/room-thumb.jpg" alt="">On a wall</button></div></div><div class="ex-info"><h2>1-5 Series of Ink and brush Heads</h2><dl><dt>Medium</dt><dd>Ink and wash on paper</dd><dt>Size</dt><dd>34 × 26 cm</dd><dt>Year</dt><dd>2025</dd><dt>Price</dt><dd>£50</dd><dt>Catalogue no.</dt><dd>128</dd></dl><p class="ex-links"><a href="enquire.html#w-128">Ask about this painting</a> · <button type="button" class="share-btn" data-url="https://joanmullinsart.co.uk/w-128.html" data-title="1-5 Series of Ink and brush Heads, by Joan Mullins"><svg aria-hidden="true" viewBox="0 0 24 24" width="16" height="16" fill="none" stroke="currentColor" stroke-width="1.8" stroke-linecap="round" stroke-linejoin="round"><path d="M4 12v7a1 1 0 0 0 1 1h14a1 1 0 0 0 1-1v-7"/><path d="M12 3v12"/><path d="M7 8l5-5 5 5"/></svg><span>Share</span></button></p></div></article><article class="ex" data-status="nfs" id="w-144"><div class="ex-pic viewer"><div class="pane" data-pane="painting"><a href="img/w/144.jpg" data-zoom title="See it larger"><img src="img/w/144.jpg" alt="Oil portrait of an older person with silver hair, in a blue jumper and white collar, looking down." loading="lazy" width="1400" height="1446"></a></div><div class="pane" data-pane="wall"><div class="wall" style="--rw:1086;--rh:1065;--s:13.0;--cx:616;--by:521">
 <img class="room" src="img/room-desk.jpg" alt="" width="1086" height="1065" loading="lazy">
 <div class="hang bare" style="--tw:29;--th:30;--fw:0;--mx:0;--mt:0;--mb:0">
 <img src="img/t/144.jpg" alt="Portrait of Dot Cato shown at its real size on a wall" loading="lazy"></div>

diff --git a/tools/build.py b/tools/build.py
@@ -158,12 +158,13 @@ ROOMS = {
     # A walnut cabinet about 90 cm wide; the picture hangs centred over it, 20 cm above its top.
     'cabinet': dict(src='img/room.jpg', thumb='img/room-thumb.jpg', rw=1037, rh=1517, s=7.6, cx=516, by=789,
                     where='Above a cabinet about 90 cm wide.'),
-    # A side table about 65 cm across with a lamp, books and a mug, beside a chair; Steph's picture (recoloured by her, 10 Nov),
+    # A side table about 65 cm across with a lamp, books and a mug, beside a chair; Steph's picture (recoloured by her, 10 Nov; wall then matched to soft white and the wood made a richer walnut),
     # cropped from 1024 x 1536 to x 120-1024, y 300-1420. The picture hangs between the lamp and the chair, 25 cm above the table top.
     # A walnut writing desk by a window with a small fern, for the tiniest paintings, hung low enough to look at sitting down.
     # Cropped from 1086 x 1448 to y 150-1215, with the A5 outline ChatGPT drew painted out, the wall matched and the wood calmed.
-    # The outline (14.8 x 21 cm) gives about 13 px = 1 cm. The picture hangs where the outline was, 20 cm above the desk top.
-    'desk': dict(src='img/room-desk.jpg', thumb='img/room-desk-thumb.jpg', rw=1086, rh=1065, s=13.0, cx=542, by=521,
+    # The outline (14.8 x 21 cm) gives about 13 px = 1 cm. The picture hangs centred on the wall between the window and the edge
+    # of the picture (ChatGPT's outline sat too far left), 20 cm above the desk top.
+    'desk': dict(src='img/room-desk.jpg', thumb='img/room-desk-thumb.jpg', rw=1086, rh=1065, s=13.0, cx=616, by=521,
                  where='Above a writing desk, hung to be seen sitting down.'),
     'table': dict(src='img/room-small.jpg', thumb='img/room-small-thumb.jpg', rw=904, rh=1120, s=7.6, cx=460, by=618,
                   where='Above a side table about 65 cm across.'),
